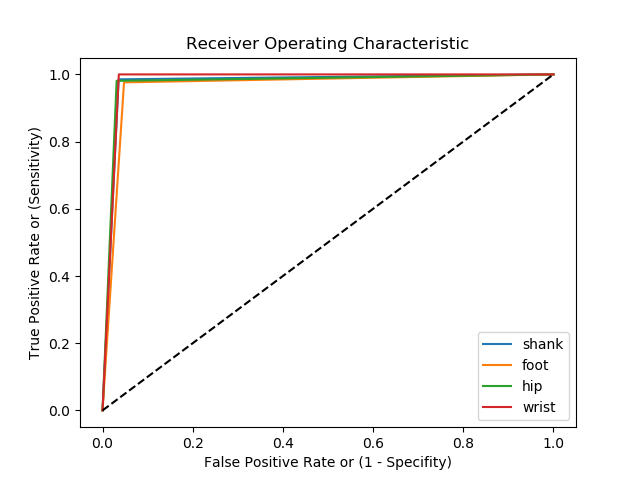
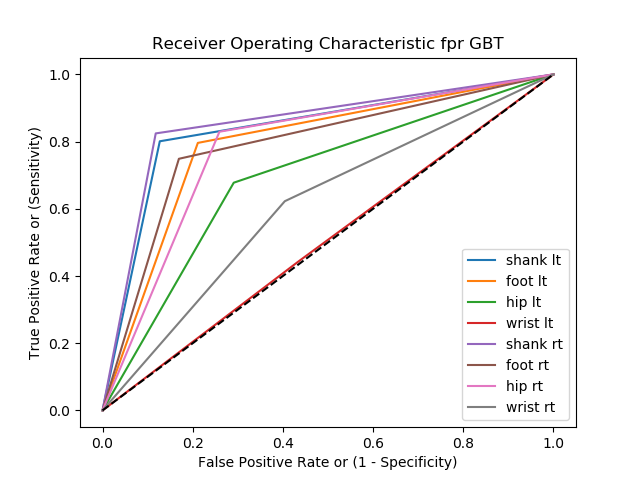
update_testing&plot

diff --git a/bdt/plot.py b/bdt/plot.py
@@ -66,6 +66,7 @@ print(len((content[35232])))
 print(len(content[0]))
 
 
+test_percentage = 0.8
 
 
 
@@ -76,12 +77,20 @@ import numpy as np
 
 import random
 
-def get_fall(point = 0):
+def get_fall(point = 0, test = False):
     fell = [0]
     while fell == [0]:
         point = falls[random.randint(0, len(falls))][0] + random.randint(10, 100)
+        if (test):
+            point = falls[random.randint(int(len(falls)*test_percentage), len(falls))][0] + random.randint(10, 100)
+        else:
+            point = falls[random.randint(0, int(len(falls)*test_percentage))][0] + random.randint(10, 100)
         segment , fell = row_to_numpy(point)
+    #print(segment)
+    #print(fell)
     return segment , fell
+
+
 
 
 j = 0
@@ -114,6 +123,9 @@ predictions = [round(value) for value in y_pred]
 fpr_list = []
 tpr_list = []
 needed = ["shank", "foot", 'hip', 'wrist']
+needed = ["shank lt", "foot lt", 'hip lt', 'wrist lt', "shank rt", "foot rt", 'hip rt', 'wrist rt']
+#needed = ["shank", "foot", 'hip', 'wrist']
+
 for sensor_name in (needed): 
     confusion_matrix = [[0,0],[0,0]]
     def checkresult_confusion(point = random.randint(1, len(content)-50), length = random.randint(300, 1500), check_fall = False, confusion_matrix = [[0,0],[0,0]]):
@@ -198,8 +210,10 @@ for sensor_name in (needed):
     Y_1 = []
     iter = 0
     # prep numpy for random forest
+    print('creating test stet ...')
     balance_needed = False
     while(iter<400):
+        #print(iter)
         j=random.randint(1, int((len(content)-50)))
         #print(j)
         #avred = not avred
@@ -207,7 +221,7 @@ for sensor_name in (needed):
             #print(iter)
             #print('Balance 0 : ' + str(balance_needed))
             if balance_needed:
-                np_arr, y = get_fall()
+                np_arr, y = get_fall(test = True)
             else:
                 np_arr, y = row_to_numpy(j)
             #print('Balance : ' + str(balance_needed))
@@ -220,8 +234,8 @@ for sensor_name in (needed):
             iter+=1;
             balance_needed = not balance_needed
         except (TypeError,IndexError):
-            #print('error raised at index ' +str(j))
-            #print(sys.exc_info()[0])
+            print('error raised at index ' +str(j))
+            print(sys.exc_info()[0])
             pass
         except:
             print(sys.exc_info()[0])
@@ -293,9 +307,9 @@ for graph in range(len(needed)):
 plt.plot([0, 1], [0, 1], 'k--')  # random predictions curve
 #plt.xlim([0.0, 1.0])
 #plt.ylim([0.0, 1.0])
-plt.xlabel('False Positive Rate or (1 - Specifity)')
+plt.xlabel('False Positive Rate or (1 - Specificity)')
 plt.ylabel('True Positive Rate or (Sensitivity)')
-plt.title('Receiver Operating Characteristic')
+plt.title('Receiver Operating Characteristic fpr GBT')
 plt.legend(loc="lower right")
 plt.savefig('bdt.png')
 #finish

diff --git a/bdt/selected_features.py b/bdt/selected_features.py
@@ -16,13 +16,16 @@ def get_labels(path = 'labels.csv'):
         content = content.split(",")
         return content
     
-def get_indexes (term = 'shank'):
+def get_indexes (term = 'shank', direction = 'rt'):
+    term = term.split(' ')
+    direction = term[1]
+    term = term[0]
     labels = get_labels()
     #return[3]
-    return [b for b in range(len(labels)) if term in labels[b]]
+    return [b for b in range(len(labels)) if (term in labels[b] and direction in labels[b])]
 
 def select_features(matrix, term = 'shank' ):
-    return matrix[:, get_indexes()]
+    return matrix[:, get_indexes(term = term)]
 
 def select_features_list():
     [[ line[i] for i in range(len(line)) if i in b ] for line in a]

diff --git a/bdt/bdt.py b/bdt/bdt.py
@@ -67,7 +67,7 @@ print(len(content[0]))
 
 
 
-
+test_percentage = 0.8
 
 
 
@@ -76,10 +76,14 @@ import numpy as np
 
 import random
 
-def get_fall(point = 0):
+def get_fall(point = 0, test = False):
     fell = [0]
     while fell == [0]:
         point = falls[random.randint(0, len(falls))][0] + random.randint(10, 100)
+        if (test):
+            point = falls[int(random.randint(len(falls)*test_percentage), len(falls) )][0] + random.randint(10, 100)
+        else:
+            point = falls[random.randint(0, int(len(falls)*test_percentage))][0] + random.randint(10, 100)
         segment , fell = row_to_numpy(point)
     return segment , fell
 

diff --git a/runner.py b/runner.py
@@ -1,4 +1,9 @@
 # -*- coding: utf-8 -*-
+
+from bdt import bdt
+
+
+
 from RNN import main
 import send
 from bnn import bnn_model
